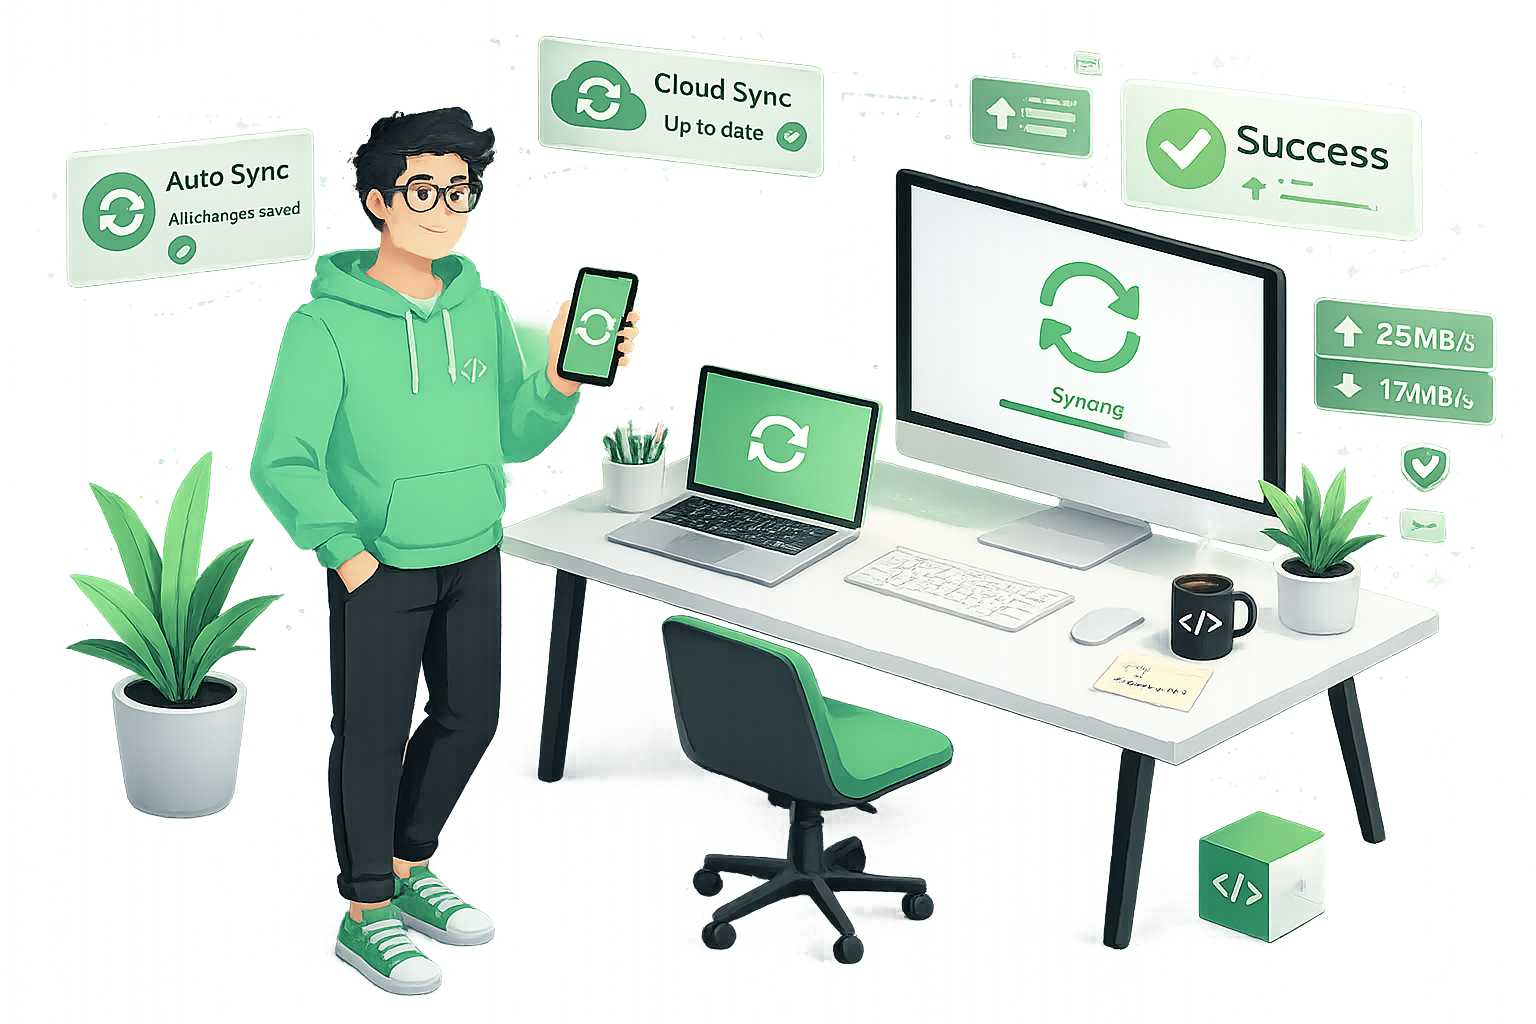
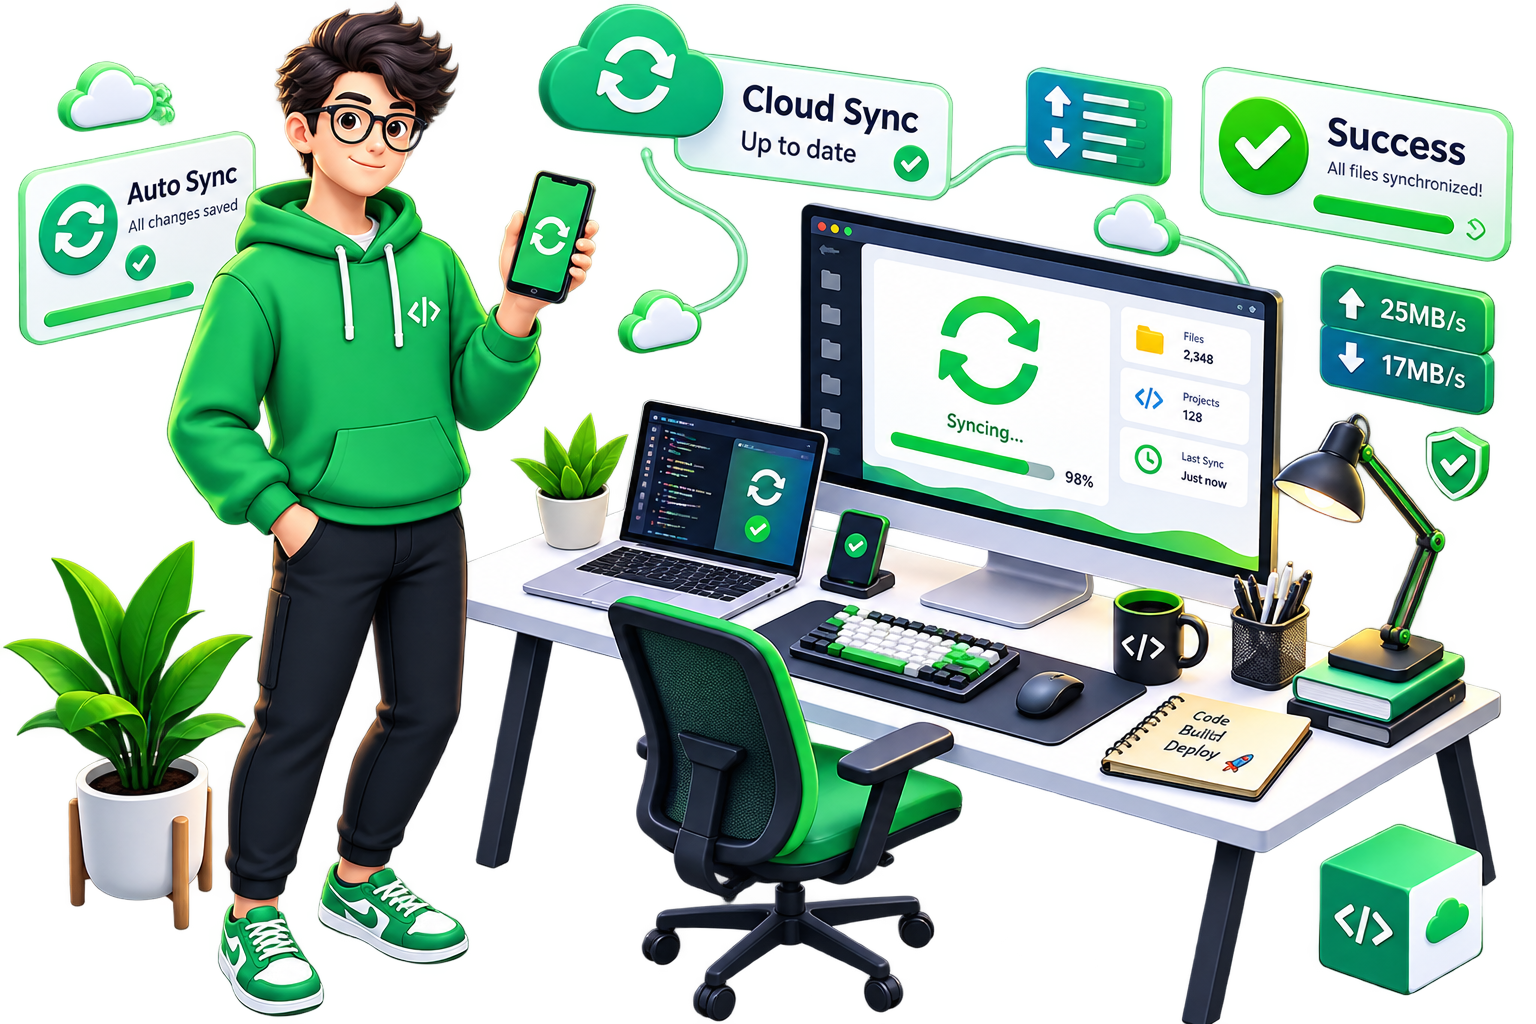
feat: implement webcam streaming and video grid component with audio level detection

diff --git a/client/src/context/SocketContext.tsx b/client/src/context/SocketContext.tsx
@@ -102,7 +102,7 @@ const SocketProvider = ({ children }: { children: ReactNode }) => {
     const handleUserJoined = useCallback(
         ({ user }: { user: RemoteUser }) => {
             setUsers((prev) => {
-                const exists = prev.some((u) => u.id === user.id)
+                const exists = prev.some((u) => u.socketId === user.socketId)
                 if (exists) return prev
                 return [...prev, user]
             })

diff --git a/client/vite.config.ts b/client/vite.config.ts
@@ -18,11 +18,6 @@ export default defineConfig({
   },
   optimizeDeps: {
     include: ['simple-peer', 'buffer', 'process'],
-    rolldownOptions: {
-      define: {
-        global: 'globalThis',
-      },
-    },
   },
   ssr: {
     external: ['util'],

diff --git a/client/src/components/webcam-stream/components/video-grid.tsx b/client/src/components/webcam-stream/components/video-grid.tsx
@@ -1,5 +1,4 @@
 import { getSocket } from "@/lib/socket"
-import { cn } from "@/lib/utils"
 import type { RefObject } from "react"
 import { useState } from "react"
 import Avatar from "react-avatar"

diff --git a/server/src/types/socket.ts b/server/src/types/socket.ts
@@ -39,4 +39,5 @@ interface SocketContext {
 	socket: Socket
 }
 
-export { SocketEvent, SocketContext, SocketId }
+export { SocketEvent }
+export type { SocketContext, SocketId }

diff --git a/server/src/types/server.ts b/server/src/types/server.ts
@@ -14,6 +14,8 @@ const __dirname = path.dirname(__filename)
 
 dotenv.config()
 
+const PORT = process.env.PORT || 3000
+
 const app = express()
 
 app.use(express.json())

diff --git a/server/src/types/user.ts b/server/src/types/user.ts
@@ -15,4 +15,5 @@ interface User {
 	selectionEnd?: number
 }
 
-export { USER_CONNECTION_STATUS, User }
+export { USER_CONNECTION_STATUS }
+export type { User }
